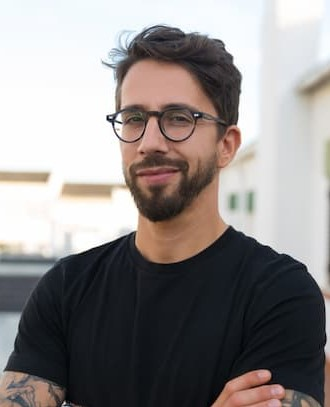
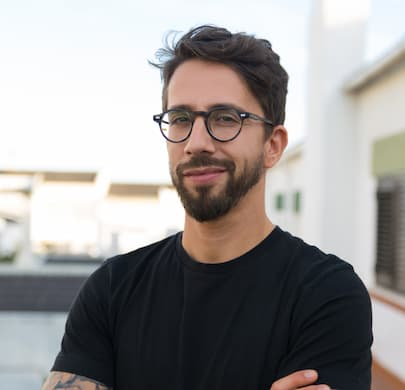
Корректировка кода в соответствии с замечаниями ментора
Alona Harnyk
https://prnt.sc/10lb3gd

https://prnt.sc/10lb3zd h3

Изображениям нужно задать атрибуты размеров (как минимум, ширины), которые соответсвуют макету.

https://prnt.sc/10lb5ak вместо тегов р и b обрените имена в h3

https://prnt.sc/10lb5w1

В тег address в футере должна быть обернуть вся контактная информация + физический адрес (г. Киев, пр-т Леси Украинки, 26) вынесите из списка.

diff --git a/index.html b/index.html
@@ -8,9 +8,7 @@
 </head>
 <body>
     <header>
-        <h3>
             <a href="#">WebStudio</a>
-        </h3>
         <nav>
             <ul>
                 <li> <a href="#">Студия</a></li>
@@ -36,19 +34,19 @@
         <section>
             <ul>
                 <li>
-                    <h4>Внимание к деталям</h4>
+                    <h3>Внимание к деталям</h3>
                     <p>Идейные соображения, а также начало повседневной работы по формированию позиции.</p>
                 </li>
                 <li>
-                    <h4>Пунктуальность</h4>
+                    <h3>Пунктуальность</h3>
                     <p>Задача организации, в особенности же рамки и место обучения кадров влечет за собой.</p>
                 </li>
                 <li>
-                    <h4>Планирование</h4>
+                    <h3>Планирование</h3>
                     <p>Равным образом консультация с широким активом в значительной степени обуславливает.</p>
                 </li>
                 <li>
-                    <h4>Современные технологии</h4>
+                    <h3>Современные технологии</h3>
                     <p>Значимость этих проблем настолько очевидна, что реализация плановых заданий.</p>
                 </li>
             </ul>
@@ -60,13 +58,13 @@
             <h2>Чем мы занимаемся</h2>
             <ul>
                 <li>
-                    <img src="./images/box1.jpg" alt="website development">
+                    <img src="./images/box1.jpg" alt="website development" height="294" width="370">
                 </li>
                 <li>
-                    <img src="./images/box2.jpg" alt="web design creation">
+                    <img src="./images/box2.jpg" alt="web design creation" height="294" width="370">
                 </li>
                 <li>
-                    <img src="./images/box4.jpg" alt="developer tools">
+                    <img src="./images/box3.jpg" alt="developer tools" height="294" width="370">
                 </li>
             </ul>
         </section>
@@ -77,31 +75,23 @@
             <h2>Наша команда</h2>
             <ul>
                 <li>
-                    <img src="./images/pdesigner.jpg" alt="member of the team" height="420">              
-                    <p>
-                        <b>Игорь Демьяненко</b>
-                    </p>
+                    <img src="./images/pdesigner.jpg" alt="member of the team" height="260" width="270">
+                    <h3>Игорь Демьяненко</h3>
                     <p>Product Designer</p> 
                 </li>
                 <li>
-                    <img src="./images/fdeveloper.jpg" alt="member of the team" height="400">         
-                    <p>
-                        <b>Ольга Репина</b>
-                    </p>
+                    <img src="./images/fdeveloper.jpg" alt="member of the team" height="260" width="270">
+                    <h3>Ольга Репина</h3>
                     <p>Frontend Developer</p>
                 </li>
                 <li>
-                    <img src="./images/marketing.jpg" alt="member of the team" height="420">
-                    <p>
-                        <b>Николай Тарасов</b>
-                    </p>
+                    <img src="./images/marketing.jpg" alt="member of the team" height="260" width="270">
+                    <h3>Николай Тарасов</h3>
                     <p>Marketing</p>
                 </li>
                 <li>
-                    <img src="./images/uldesigner.jpg" alt="member of the team" width="340">               
-                    <p>
-                    <b>Михаил Ермаков</b>
-                    </p>
+                    <img src="./images/uldesigner.jpg" alt="member of the team" height="260" width="270">
+                    <h3>Михаил Ермаков</h3>
                     <p>UI Designer</p>
                 </li>
             </ul>
@@ -111,20 +101,18 @@
     <!-- /Main content -->
 
     <footer>
-        <h3>
             <a href="#">WebStudio</a>
-        </h3>
-            <ul>
-                <li>
-                    <address>г. Киев, пр-т Леси Украинки, 26</address>
-                </li>
-                <li> 
-                    <a href="mailto:info@devstudio.com">info@devstudio.com</a>
-                </li>
-                <li>
-                    <a href="tel:+380961111111">+38 096 111 11 11</a>
-                </li>
-            </ul>
+            <address>
+                <p>г. Киев, пр-т Леси Украинки, 26</p>
+                <ul>
+                    <li> 
+                        <a href="mailto:info@devstudio.com">info@devstudio.com</a>
+                    </li>
+                    <li>
+                        <a href="tel:+380961111111">+38 096 111 11 11</a>
+                    </li>
+                </ul>
+            </address>
     </footer>
 </body>
 </html>
